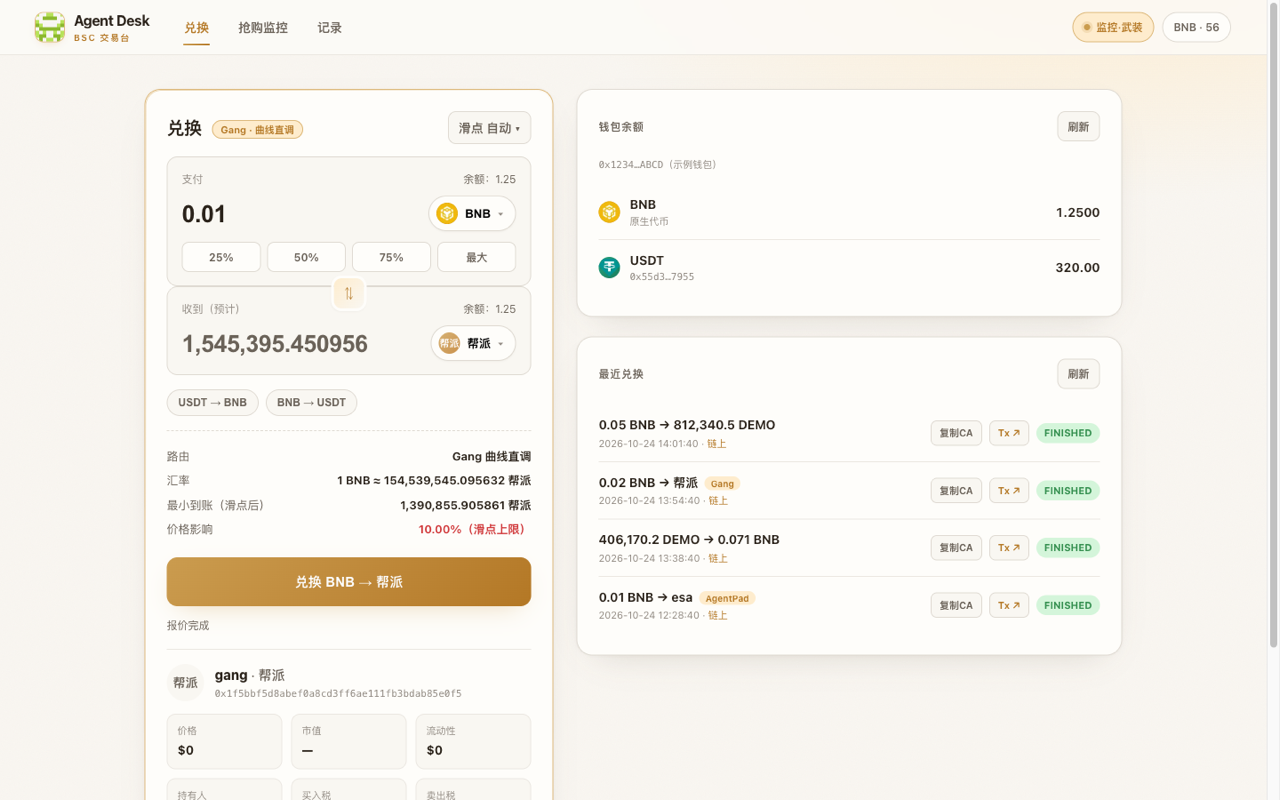
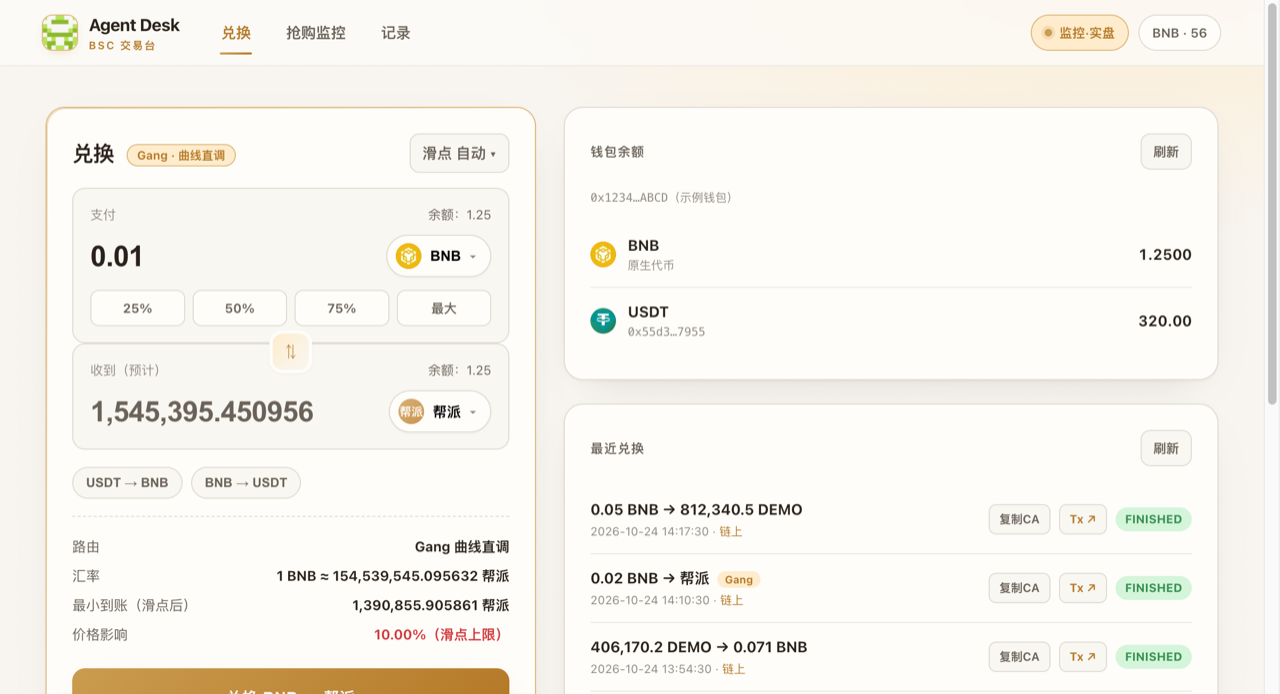
chore: rename to agenticwallet-desk, 实盘/模拟 wording, drop unsupported platform note

diff --git a/panel.js b/panel.js
@@ -459,14 +459,14 @@ async function loadStatus() {
     const live = x.data?.live, st = x.data?.status || {};
     const chip = $('monChip');
     chip.className = 'chip' + (live ? (st.armed ? ' armed' : ' live') : ' off');
-    $('monChipText').textContent = live ? (st.armed ? '监控·武装' : '监控·演练') : '监控离线';
+    $('monChipText').textContent = live ? (st.armed ? '监控·实盘' : '监控·模拟') : '监控离线';
     // dashboard
     const ring = $('monRing'); ring.className = 'mon-ring' + (live ? ' live' : '');
     $('monSub').textContent = live
       ? `${st.presetName || '模板'} · preset ${st.preset}`
       : '监控进程未运行（命令行启动 four_watch.mjs）';
     $('monPills').innerHTML = live
-      ? `<span class="pill ${st.armed ? 'arm' : 'dry'}">${st.armed ? '武装买入' : '演练模式'}</span><span class="pill on">运行中</span>`
+      ? `<span class="pill ${st.armed ? 'arm' : 'dry'}">${st.armed ? '实盘' : '模拟'}</span><span class="pill on">运行中</span>`
       : `<span class="pill off">离线</span>`;
     const stats = [
       ['买入预算', (st.budgetBnb ?? '—') + ' BNB', 'gold'],

diff --git a/panel.html b/panel.html
@@ -192,7 +192,7 @@ main{position:relative;z-index:1;max-width:1180px;margin:0 auto;padding:clamp(20
 .mon-ring.live{background:var(--gold-soft);border-color:var(--gold-line);box-shadow:var(--shadow-gold)}
 .mon-title{font-size:19px;font-weight:750;letter-spacing:-.02em}
 .mon-sub{font-size:12px;color:var(--muted);margin-top:3px}
-.pill{font-size:11px;font-weight:700;padding:4px 10px;border-radius:999px}
+.pill{font-size:11px;font-weight:700;padding:4px 10px;border-radius:999px;white-space:nowrap;flex:none}
 .pill.on{background:oklch(94% .05 150);color:var(--up)}
 .pill.off{background:oklch(94% .06 25);color:var(--down)}
 .pill.arm{background:var(--gold-soft);color:var(--gold-deep);border:1px solid var(--gold-line)}

diff --git a/REPLICATE_PROMPT.md b/REPLICATE_PROMPT.md
@@ -11,7 +11,7 @@
 1. **聚合兑换**：任意代币互换、USDT⇄BNB 快捷对、方向反转、滑点/Gas 设置、实时报价、价格影响、25%/50%/75%/最大 百分比快捷填入、订单历史。
 2. **代币信息展示**：输入合约地址即展示该币的 logo、名称、价格、市值、流动性、持有人、买卖税、貔貅/rug 风险徽章。代币选择器里"搜到即展示内容"，不是裸导入。
 3. **Four.meme 新币抢购监控 + 自动买入**：事件驱动监听指定模板的新币，命中后自动用固定 BNB 预算买入；买不进（白名单/revert）自动跳过下一个；买到后桌面弹窗 + 面板事件；持仓到 10 倍弹窗提醒（只提醒不自动卖）。
-4. **三视图面板**：兑换 / 抢购监控 / 记录；钱包 blockies 几何 logo；监控状态仪表盘（live/armed、模板、预算、最新区块、已买/已跳/WSS/心跳）。
+4. **三视图面板**：兑换 / 抢购监控 / 记录；钱包 blockies 几何 logo；监控状态仪表盘（live/实盘、模板、预算、最新区块、已买/已跳/WSS/心跳）。
 
 **硬约束**：面板不持有私钥。所有签名、授权、风控、广播都委托本机已登录的钱包 CLI（见下）。面板只做只读查询 + 发起交易请求。
 
@@ -71,7 +71,7 @@ ThreadingHTTPServer + 一个 Handler。安全：POST 校验 Origin 为 127.0.0.1
   - preview 失败（白名单 revert 等）→ 记 `skipped`，**跳下一个，不重试**。
 - 排除已知测试代币；买过的不重买；买卖都用 preview 先验证。
 - 买到后记录入场价（走 gmgn-cli 实时价，链上 estimate 在低流动性会返 0 不可靠）；独立循环轮询持仓价，到 10 倍写事件 + 桌面通知（只提醒不卖）。
-- 环境变量：`FOUR_ARM=1`（真买，否则演练）、`FOUR_BUDGET_BNB`（默认 0.01）、`FOUR_PRESET`、`FOUR_SCAN_MIN_MS`、`FOUR_FALLBACK_MS`。
+- 环境变量：`FOUR_ARM=1`（实盘，否则模拟）、`FOUR_BUDGET_BNB`（默认 0.01）、`FOUR_PRESET`、`FOUR_SCAN_MIN_MS`、`FOUR_FALLBACK_MS`。
 - 状态写 `~/.config/four-watch-status.json`：`{ts,pid,armed,budgetBnb,preset,presetName,head,bought,skipped,wss}`。事件写 `~/.config/four-watch-events.json`（数组，最多 100 条，新的在前）。
 
 ### 5. `panel.html` + `panel.js` — 前端（见第五节设计）
@@ -98,7 +98,7 @@ ThreadingHTTPServer + 一个 Handler。安全：POST 校验 Origin 为 127.0.0.1
 - **调色（OKLCH 推理，输出可用 hex/oklch）**：暖象牙白底（非纯白），纯白卡片浮起，极细暖灰半透明描边 + 柔投影；主强调 = 香槟金/古铜金（CTA、选中态、logo、活跃态金边），涨=克制绿、跌=克制红；不用纯 #fff/#000，中性色微偏暖。固定 SVG feTurbulence 颗粒底纹 opacity≈0.03 压扁矢量感。标题负字距、紧行高；所有数字 `font-variant-numeric: tabular-nums`。
 - **顶栏**：钱包地址生成的 blockies 几何 logo（canvas，金色系调色板，8×8 对称）；三视图导航「兑换 / 抢购监控 / 记录」带金色下划线高亮；右上监控状态 chip（live→金/绿点，armed→金底，离线→红点）。favicon 用同系金色几何方块 SVG 内嵌进 `<head>`。
 - **兑换视图**：金边主卡（支付腿 + 反转按钮 + 收到腿）；支付腿下 25%/50%/75%/最大 四个比例按钮（按余额比例填入，原生 BNB 先扣 0.001 gas 预留再乘比例）；USDT→BNB / BNB→USDT 快捷对；滑点(自动/0.5/1/3/自定义)与 Gas(低/中/高) 折叠设置；输入防抖 380ms 自动报价，显示汇率/最小到账/价格影响；下方代币信息卡（logo/价格/市值/流动性/持有人/买卖税 + 风险徽章）。右列钱包余额 + 最近兑换。
-- **监控视图**：仪表盘卡（靶心图标 + 武装/演练 + 运行药丸、模板名+preset、预算金色、最新区块、已买/已跳/WSS/心跳，数据从 /status 每 6 秒刷）；事件流（买入✅/10倍🚀，带 bscscan 链接）；Four.meme 只读核查输入框。
+- **监控视图**：仪表盘卡（靶心图标 + 实盘/模拟 + 运行药丸、模板名+preset、预算金色、最新区块、已买/已跳/WSS/心跳，数据从 /status 每 6 秒刷）；事件流（买入✅/10倍🚀，带 bscscan 链接）；Four.meme 只读核查输入框。
 - **记录视图**：兑换历史 + 监控事件两栏。
 - **代币选择器 dialog（关键交互）**：输入框粘贴完整 0x 地址 → 立即并行拉 /meta + /tokeninfo → 在弹窗内渲染**富信息卡**（logo、名称·符号、地址+launchpad、价格/流动性/余额/市值/买卖税、风险徽章、金色"选择 XXX"按钮），而不是一行"导入"。非地址输入则按名称/符号过滤已知代币列表。选中后缓存进已知列表。
 - 无障碍：焦点态可见、对比度达标、`prefers-reduced-motion` 关动画、移动端单列。
@@ -112,7 +112,7 @@ ThreadingHTTPServer + 一个 Handler。安全：POST 校验 Origin 为 127.0.0.1
 npm i ws@8
 # 2. 起面板
 NODE_USE_ENV_PROXY=1 python3 ptah_panel.py        # http://127.0.0.1:8787
-# 3. 起监控（演练先 FOUR_ARM 不设；确认无误再 =1 真买）
+# 3. 起监控（先模拟：FOUR_ARM 不设；确认无误再 =1 切实盘）
 GMGN_API_KEY=$(grep GMGN_API_KEY ~/.config/gmgn/.env|cut -d= -f2) \
 NODE_USE_ENV_PROXY=1 FOUR_ARM=1 FOUR_BUDGET_BNB=0.01 node four_watch.mjs
 ```
